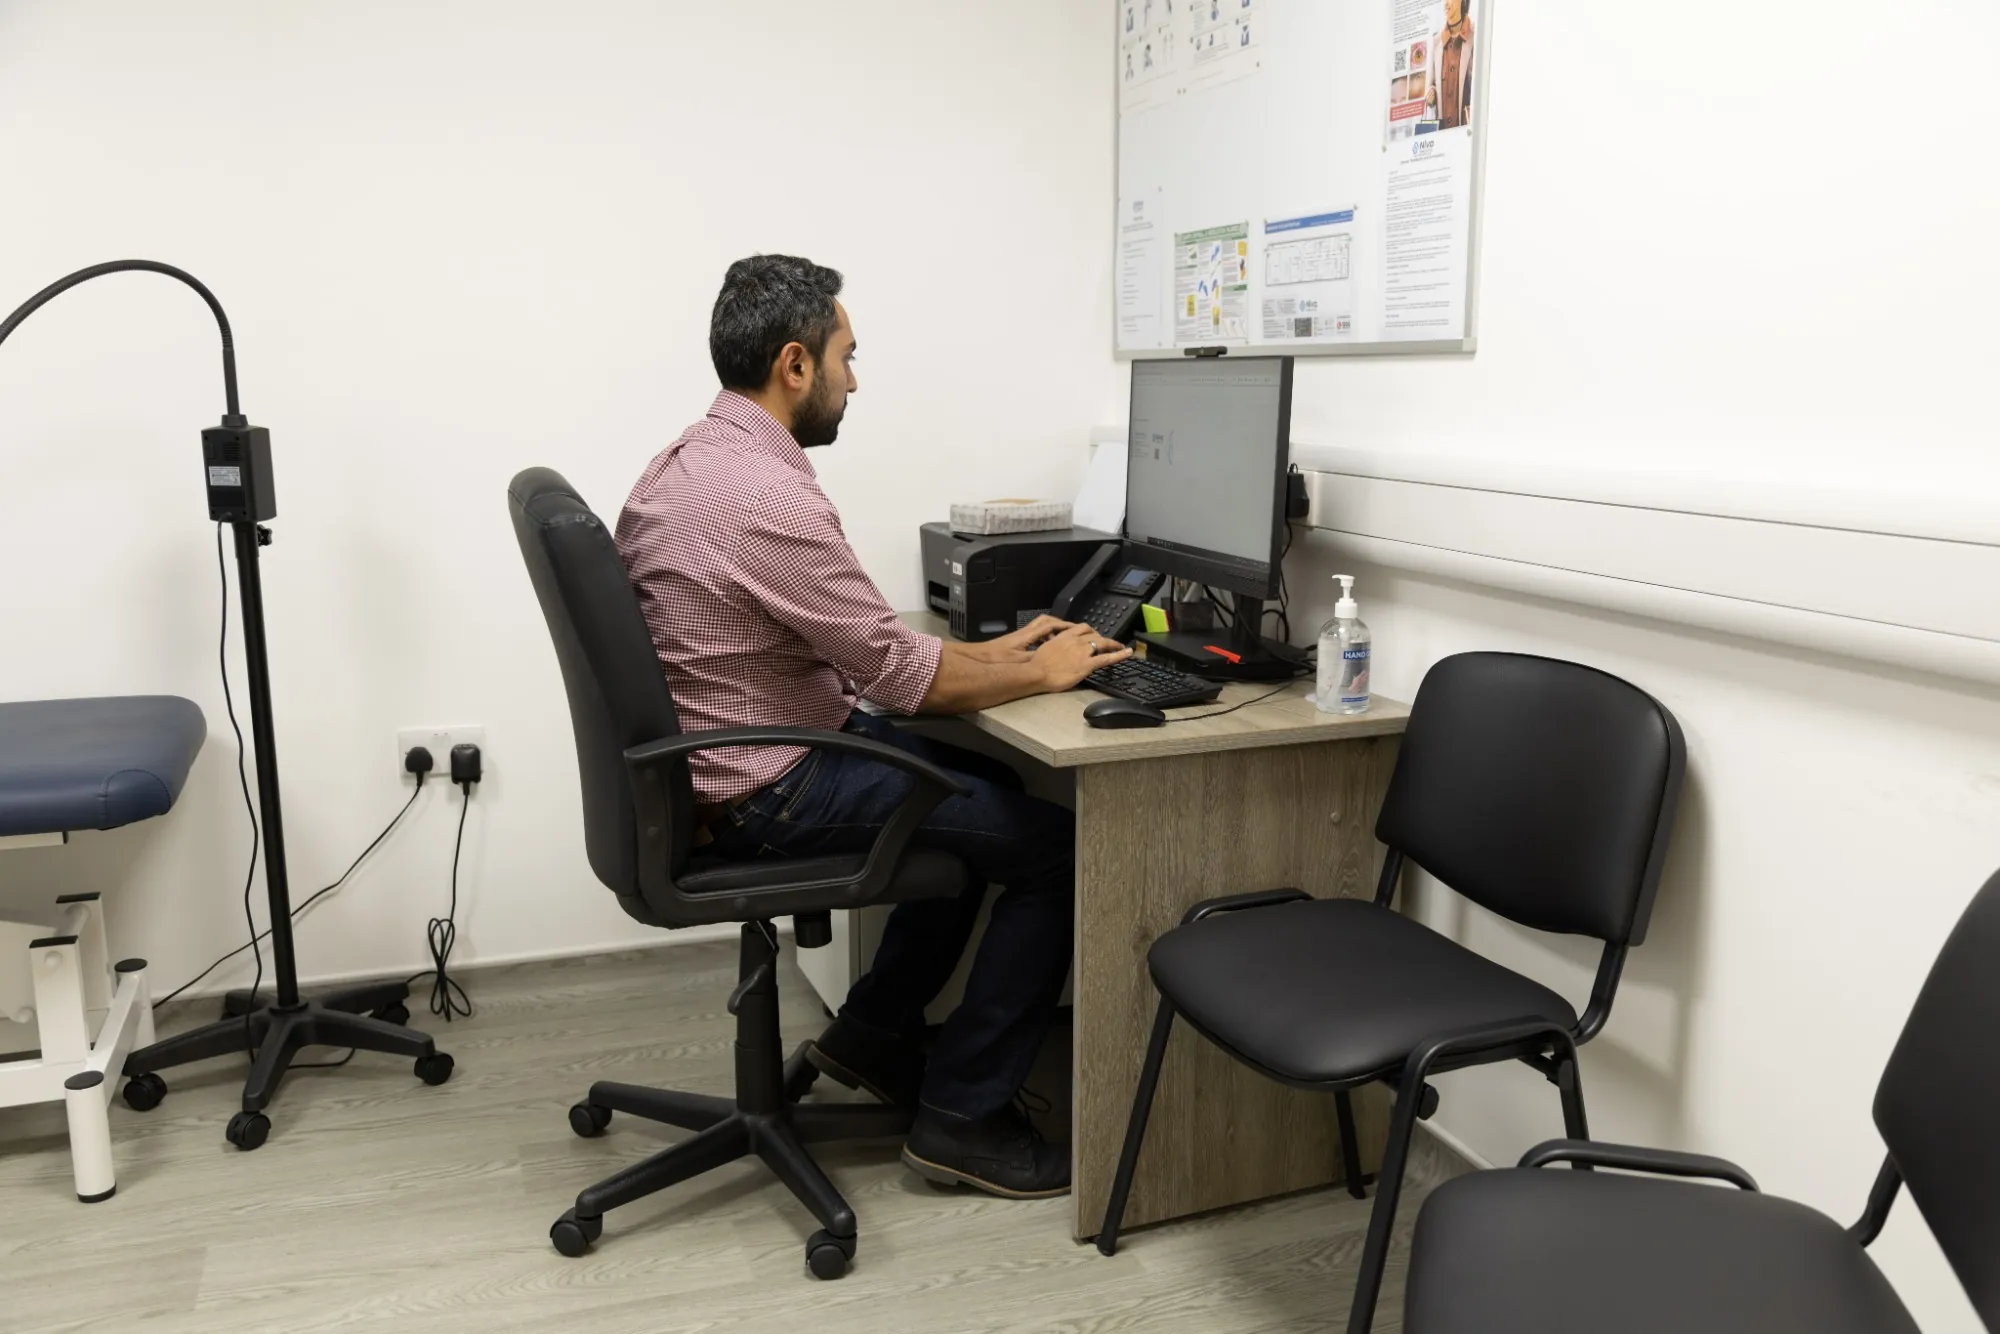
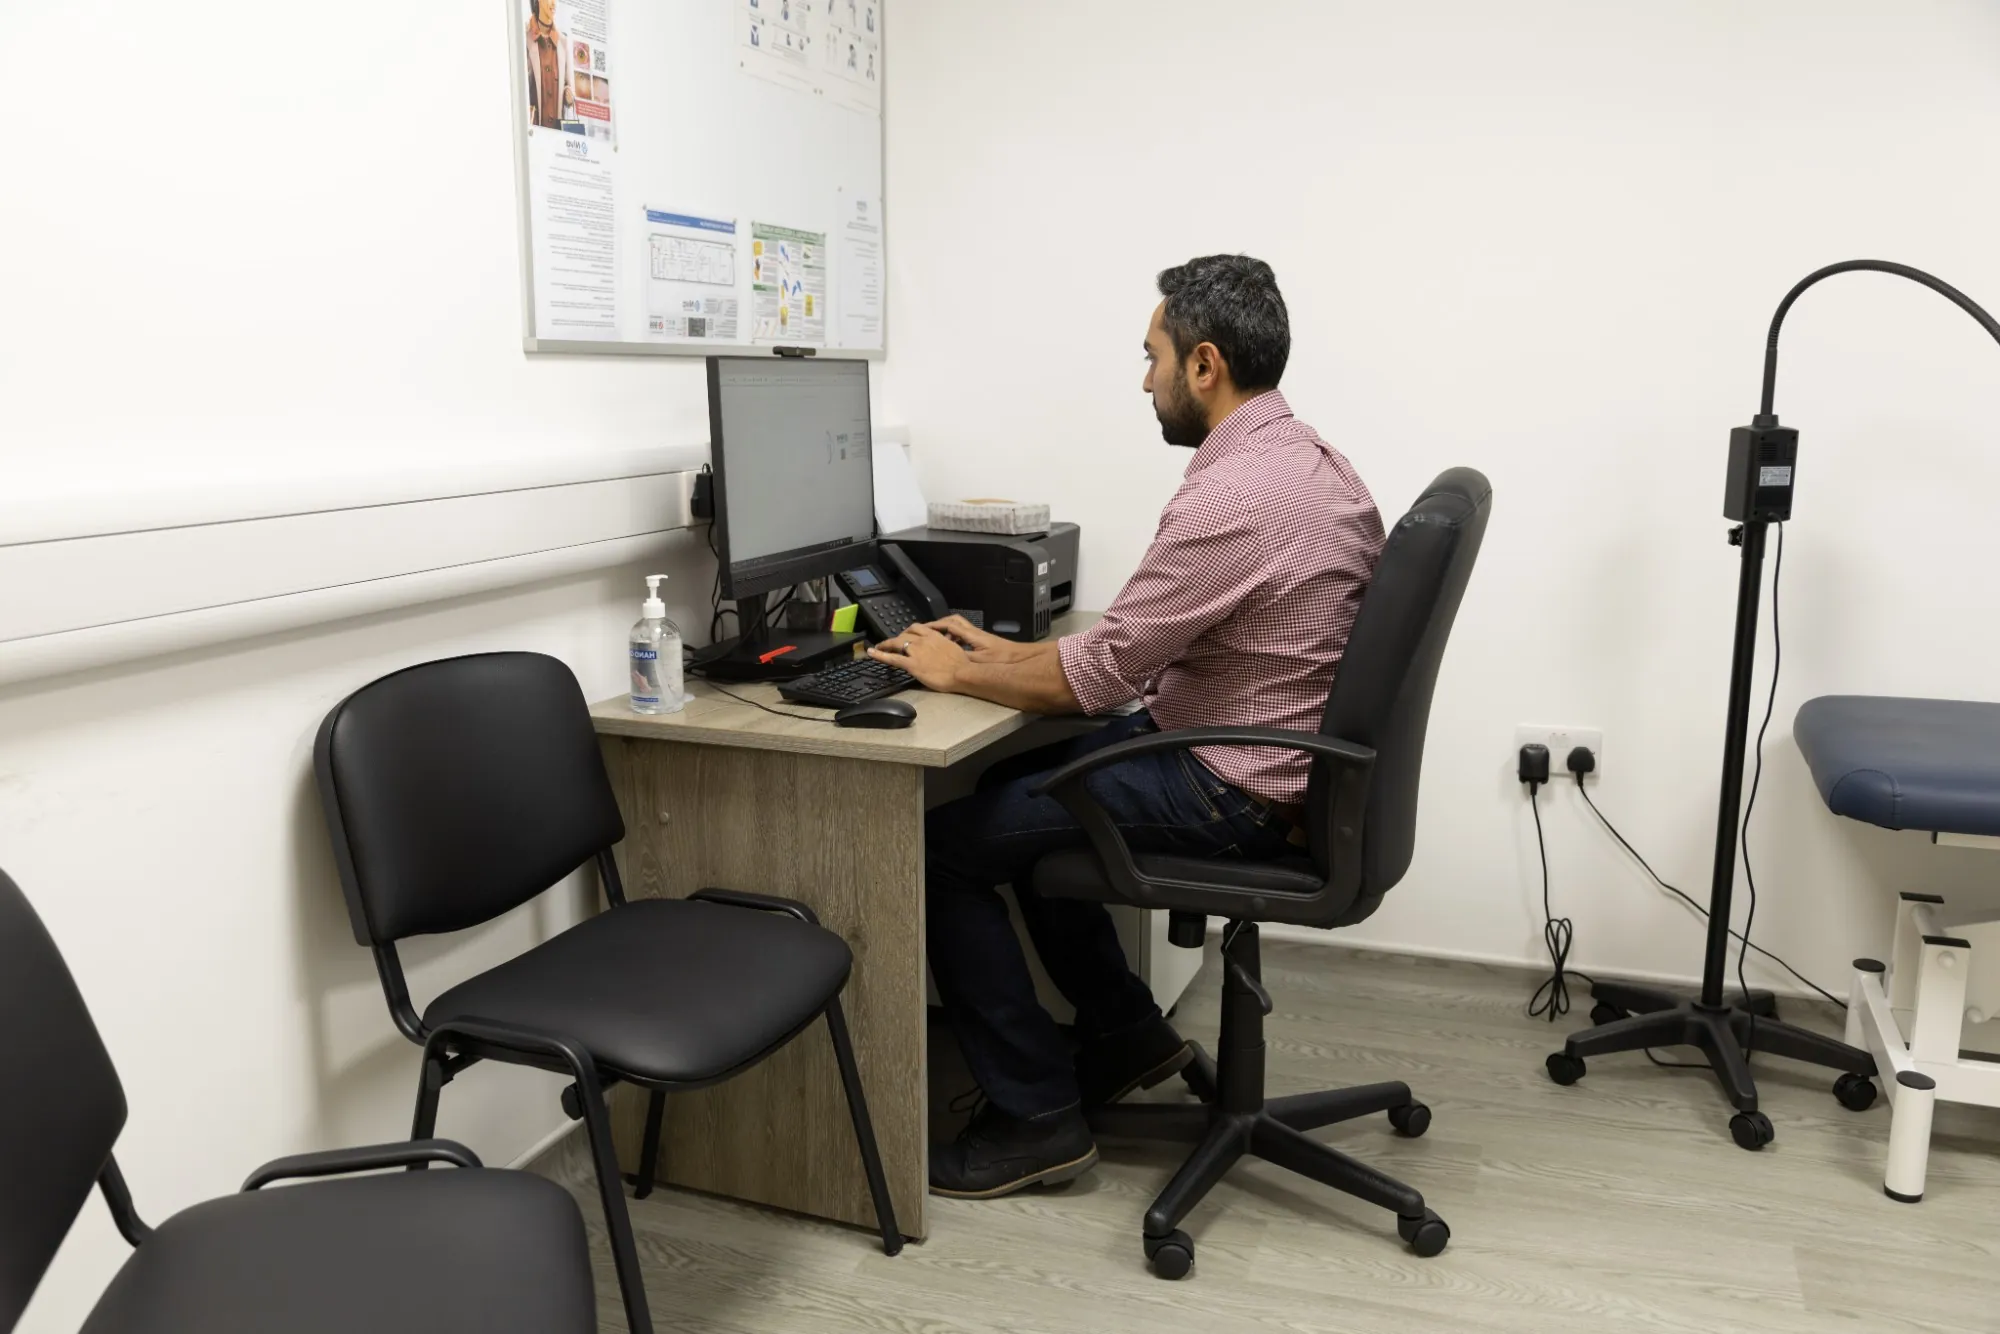
Hero slideshow: add treatment room, faster slides, mirror desk photo
- Sixth slide: treatment room, after the consulting room
- Slides change every 4s (was 6s), 1.2s fade, 6s zoom
- Consulting-room photo mirrored so the GP faces into the frame

Claude-Session: https://claude.ai/code/session_01MQkXnTL1Arkc7JLHREEtsH

diff --git a/public/css/site.css b/public/css/site.css
@@ -131,14 +131,14 @@ h1, h2, h3, h4 { margin: 0; font-weight: var(--font-weight-bold); }
 }
 .hero-media { position: absolute; inset: 0; z-index: -2; }
 .hero-media img { width: 100%; height: 100%; object-fit: cover; object-position: 75% center; }
-/* Homepage hero slideshow: photos cross-fade every 6s, each with a slow zoom.
+/* Homepage hero slideshow: photos cross-fade every 4s, each with a slow zoom.
    The outgoing slide keeps its zoom (.is-leaving) while it fades so it doesn't snap back. */
 .hero-slides { overflow: hidden; }
-.hero-slide { position: absolute; inset: 0; opacity: 0; transition: opacity 1.6s ease-in-out; }
+.hero-slide { position: absolute; inset: 0; opacity: 0; transition: opacity 1.2s ease-in-out; }
 .hero-slide.is-active { opacity: 1; z-index: 1; }
 .hero-slide.is-leaving { opacity: 0; z-index: 0; }
 .hero-slides .hero-slide img { width: 100%; height: 100%; object-fit: cover; object-position: center; transform-origin: 70% 50%; }
-.hero-slide.is-active img, .hero-slide.is-leaving img { animation: hero-zoom 9s linear forwards; }
+.hero-slide.is-active img, .hero-slide.is-leaving img { animation: hero-zoom 6s linear forwards; }
 .hero-slide:nth-child(even) img { transform-origin: 30% 60%; }
 @keyframes hero-zoom { from { transform: scale(1); } to { transform: scale(1.1); } }
 @media (prefers-reduced-motion: reduce) {

diff --git a/public/index.html b/public/index.html
@@ -145,8 +145,12 @@
         <img data-src="/assets/img/hero-waiting-area.webp" alt="The waiting area, with a navy sofa and plants by the front window" width="2000" height="1334" decoding="async">
       </picture>
       <picture class="hero-slide" aria-hidden="true">
-        <source media="(max-width: 767px)" data-srcset="/assets/img/hero-consulting-room-mobile.webp">
-        <img data-src="/assets/img/hero-consulting-room.webp" alt="A Niva GP at the desk in a consulting room" width="2000" height="1334" decoding="async">
+        <source media="(max-width: 767px)" data-srcset="/assets/img/hero-consulting-room-mobile.webp?v=2">
+        <img data-src="/assets/img/hero-consulting-room.webp?v=2" alt="A Niva GP at the desk in a consulting room" width="2000" height="1334" decoding="async">
+      </picture>
+      <picture class="hero-slide" aria-hidden="true">
+        <source media="(max-width: 767px)" data-srcset="/assets/img/hero-treatment-room-mobile.webp">
+        <img data-src="/assets/img/hero-treatment-room.webp" alt="A treatment room with an examination couch, examination lamp and eye equipment" width="2000" height="1334" decoding="async">
       </picture>
       <picture class="hero-slide" aria-hidden="true">
         <source media="(max-width: 767px)" data-srcset="/assets/img/hero-shopfront-mobile.webp">

diff --git a/public/js/site.js b/public/js/site.js
@@ -56,10 +56,10 @@
         var cur = slides[at], next = slides[(at + 1) % slides.length];
         cur.classList.remove('is-active'); cur.classList.add('is-leaving');
         next.classList.remove('is-leaving'); next.classList.add('is-active');
-        setTimeout(function () { cur.classList.remove('is-leaving'); }, 1700);
+        setTimeout(function () { cur.classList.remove('is-leaving'); }, 1300);
         at = (at + 1) % slides.length;
         load(slides[(at + 1) % slides.length]);
-      }, 6000);
+      }, 4000);
     }
   }
 
